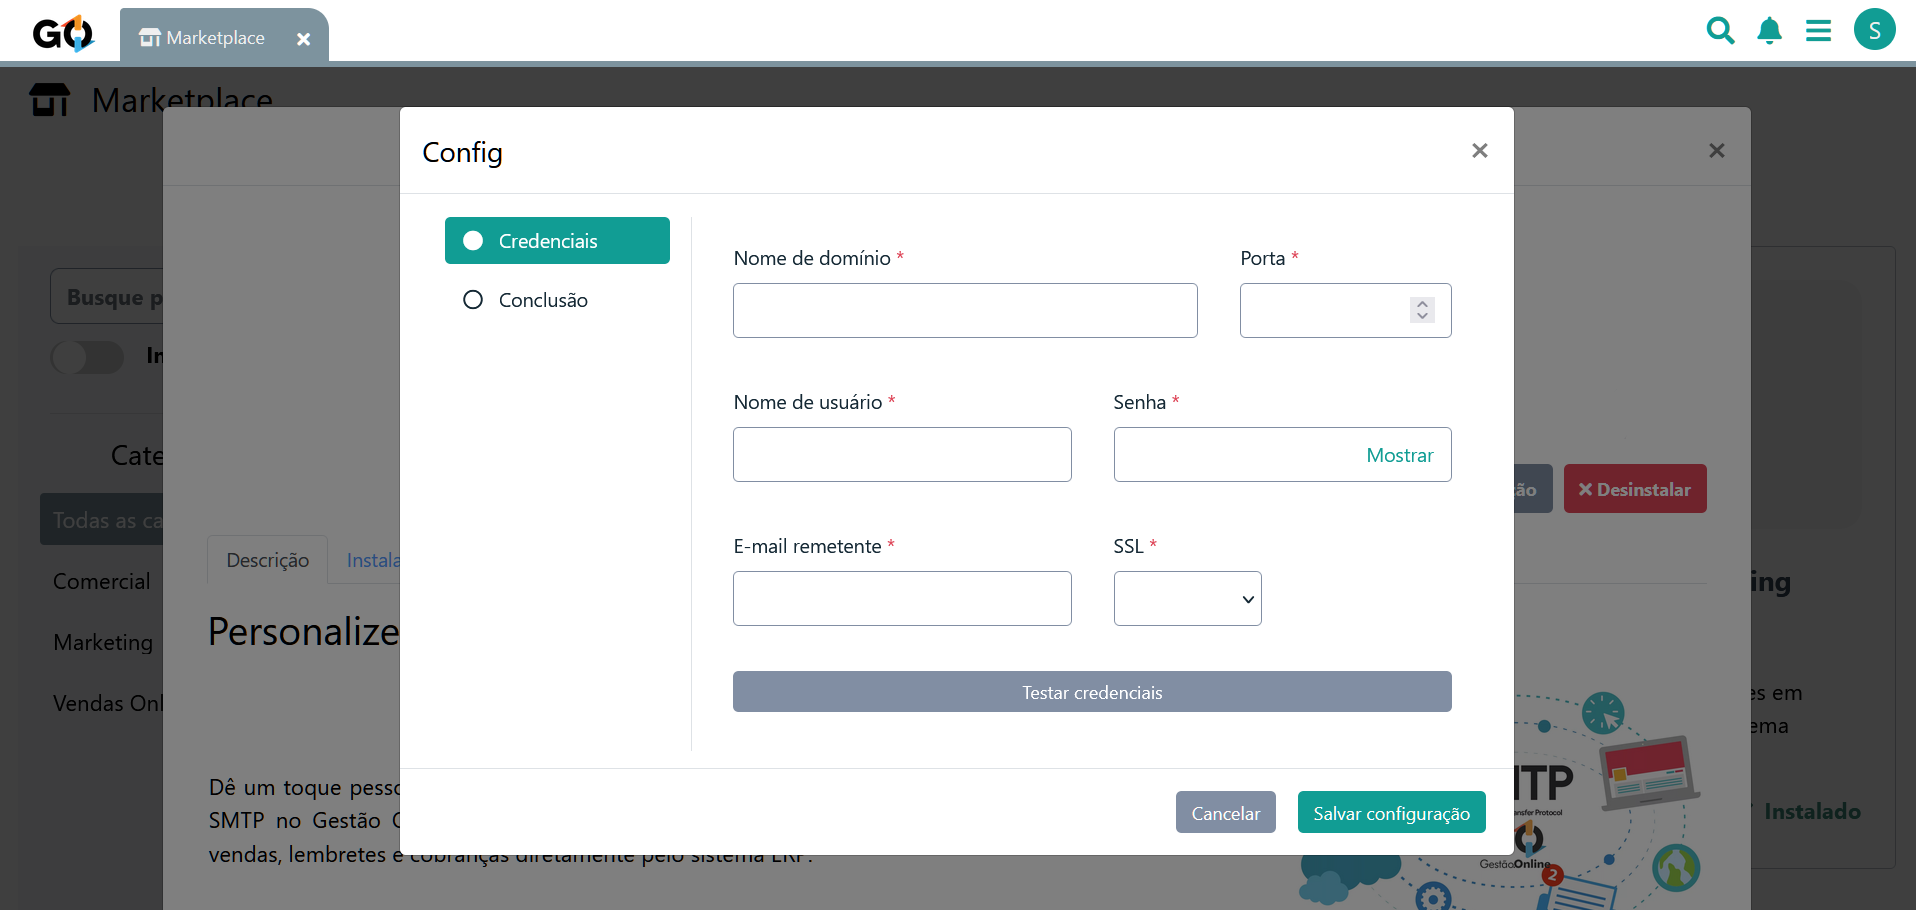
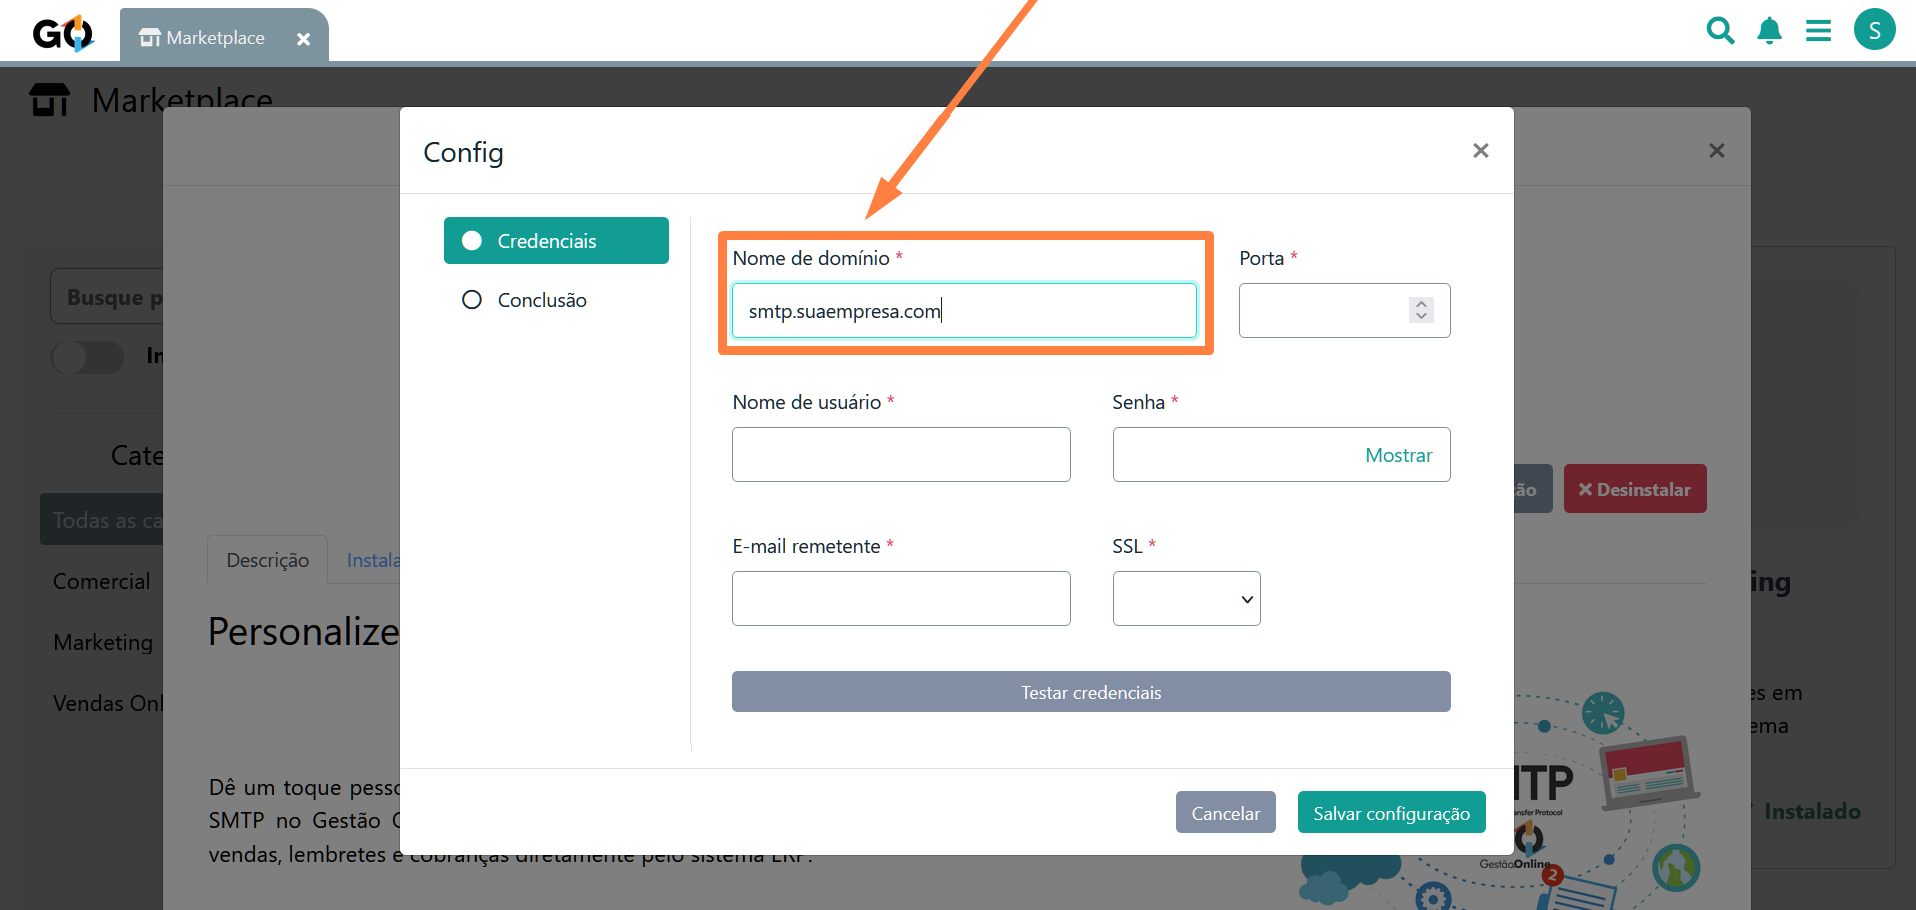
Imagens extensão SMTP marketplace

diff --git a/erp-v2/marketplace/extensions/br.com.gestao-online.smtp/README.md b/erp-v2/marketplace/extensions/br.com.gestao-online.smtp/README.md
@@ -2,12 +2,43 @@
 
 ### Configurando a Personalização de SMTP
 
-Com a extensão instalada, você precisa configurá-la clicando no botão de configuração que é exibido a partir do momento que você instala a extensão no sistema.
+Este passo a passo vai te ajudar a configurar o SMTP no seu ERP, permitindo o envio de e-mails personalizados usando o servidor de e-mail da sua empresa. Siga as instruções abaixo:
 
-Nesta aplicação ao clicar no botão de configurações uma notificação pop-up irá te notificar que a aplicação foi configurada com sucesso, e assim deixará disponível na sua tela de vendas um novo botão disponível.
+Nesta aplicação ao clicar no botão de configurações uma notificação pop-up irá se abrir mostrando os campos disponíveis para alteração.
 
 <div style="text-align: center">
-    <img src="https://github.com/Gestao-Online/public-docs/blob/4849fc123bdd7494d8cde47a21b22ddb6005b1f1/erp-v2/marketplace/extensions/br.com.gestao-online.smtp/assets/extensao_smtp_03.gif?raw=true" alt="0" width="800"> 
+    <img src="https://github.com/Gestao-Online/public-docs/blob/dd8468ade6418c6fb1616645af0d484158434034/erp-v2/marketplace/extensions/br.com.gestao-online.smtp/assets/extensao_smtp_03.gif?raw=true" alt="0" width="800"> 
 </div>
+
+<br>
+
+### Configurando credenciais
+
+Preencha os campos obrigatórios marcados com * conforme as informações fornecidas pelo seu provedor de e-mail.
+
+<div style="background-color:rgb(248, 248, 230); border-left: 6px solid rgb(253, 249, 27); padding: 15px; margin: 20px 0; border-radius: 5px; color: #333; box-shadow: 0 2px 5px rgba(0, 0, 0, 0.1);"><h4 style="margin: 0 0 10px; font-size: 1em; color: #555;">⚠ Importante:</h4><p style="margin: 0; line-height: 1.5;">Verifique com o seu provedor de e-mail quais são as configurações corretas de domínio, porta e SSL.</div>
+
+No primeiro campo temos o **Nome de Domínio**, nele você pode preencher por exemplo: smtp.suaempresa.com. Caso não saiba o domínio, consulte o suporte técnico do provedor.
+
+<div style="text-align: center">
+    <img src="https://github.com/Gestao-Online/public-docs/blob/a5ca1f39e29c5afaebae95c3aac2f3abc5e98791/erp-v2/marketplace/extensions/br.com.gestao-online.smtp/assets/extensao_smtp_04.png?raw=true" alt="0" width="800"> 
+</div>
+
+<br>
+
+No segundo campo você irá preecnher com o número da porta que será usada para conexão com o servidor SMTP. A portas mais comuns são:
+
+- **587**: Para conexões TLS.
+- **465**: Para conexões SSL.
+- **25**: Para servidores que não exigem criptografia (menos comum).
+
+Mas sempre recomendamos que verifique com o seu provedor qual porta deve ser utilizada.
+
+<div style="text-align: center">
+    <img src="https://github.com/Gestao-Online/public-docs/blob/a5ca1f39e29c5afaebae95c3aac2f3abc5e98791/erp-v2/marketplace/extensions/br.com.gestao-online.smtp/assets/extensao_smtp_05.png?raw=true" alt="0" width="800"> 
+</div>
+
+
+Agora o seu SMTP está configurado e pronto para uso! 🎉
 
 </div>
